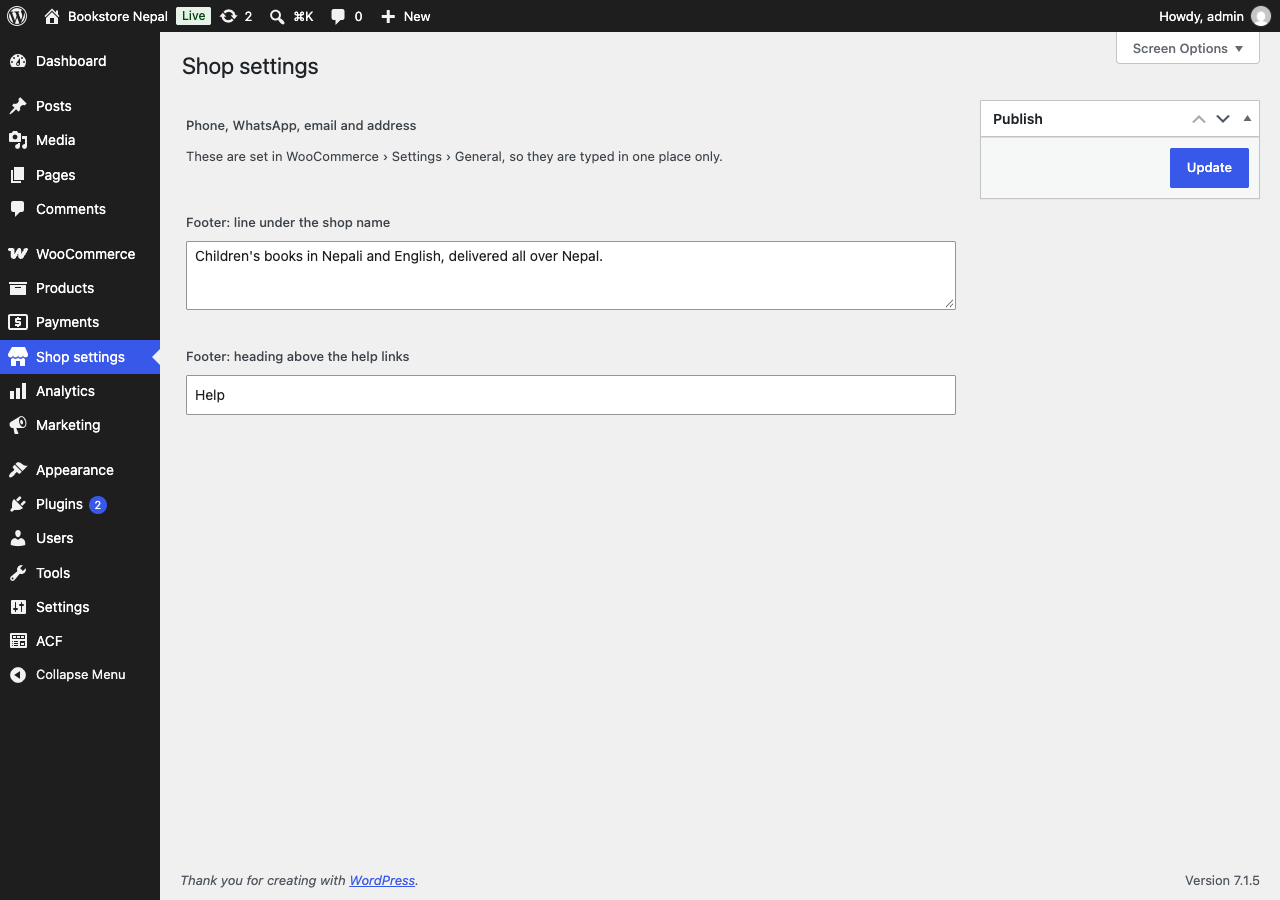
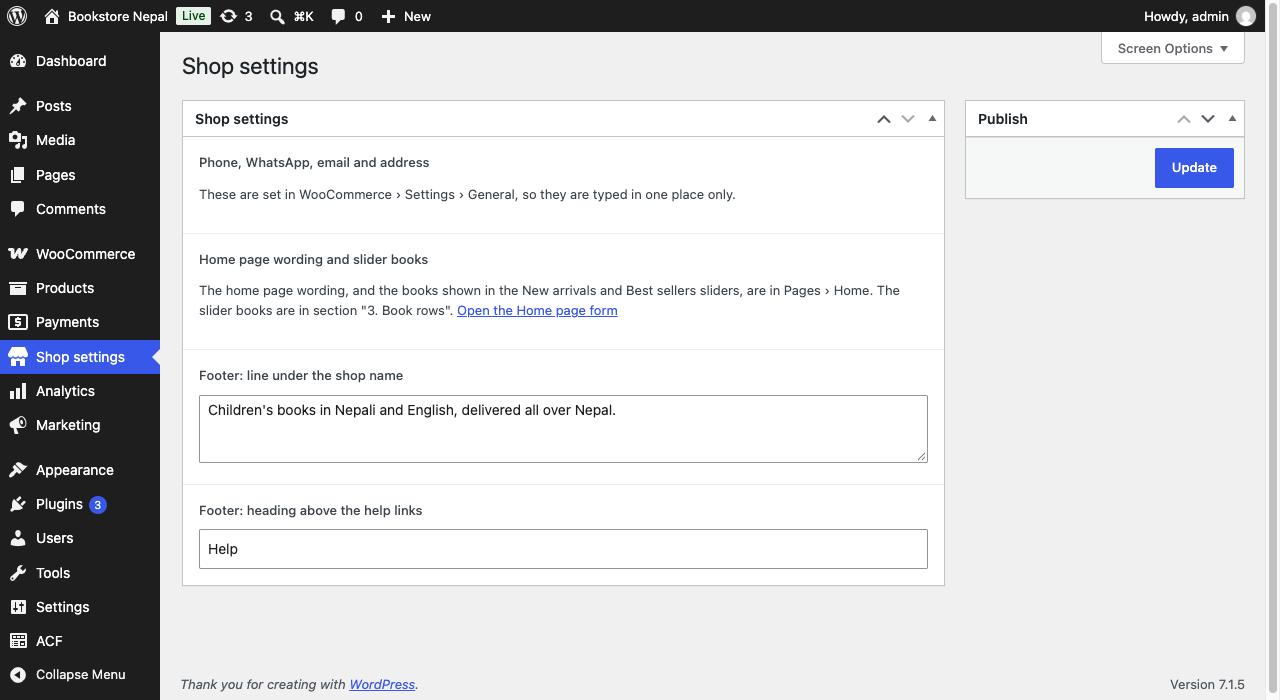
fix: slider cards not clipped, three-line menu button, hero books inside the page
- Slider cards no longer pop in (their scrolling row clipped the movement) and
  the row has a little room at the top.
- The mobile menu button uses the three-line icon.
- The drawn hero books stay inside the content edge on desktop.
- Shop settings points to the Home page form, where the slider book pickers are.

diff --git a/themes/bookstore-nepal/style.css b/themes/bookstore-nepal/style.css
@@ -279,9 +279,9 @@ body {
 	line-height: 1.1;
 }
 
-.bsn-hero__book--1 { left: 6%; top: 40px; width: 200px; height: 270px; background: #2F6FB5; color: #FFF; font-size: 24px; rotate: -8deg; }
-.bsn-hero__book--2 { left: 34%; top: 0; width: 210px; height: 290px; background: var(--wp--preset--color--accent-1); color: var(--wp--preset--color--contrast); font-size: 28px; rotate: 3deg; }
-.bsn-hero__book--3 { left: 60%; top: 70px; width: 190px; height: 260px; background: #E8746A; color: var(--wp--preset--color--contrast); font-size: 22px; rotate: 10deg; }
+.bsn-hero__book--1 { left: 20px; top: 40px; width: 180px; height: 245px; background: #2F6FB5; color: #FFF; font-size: 24px; rotate: -8deg; }
+.bsn-hero__book--2 { left: 50%; margin-left: -95px; top: 0; width: 190px; height: 260px; background: var(--wp--preset--color--accent-1); color: var(--wp--preset--color--contrast); font-size: 28px; rotate: 3deg; }
+.bsn-hero__book--3 { right: 28px; top: 70px; width: 175px; height: 240px; background: #E8746A; color: var(--wp--preset--color--contrast); font-size: 22px; rotate: 10deg; }
 
 /* Shop by age */
 .bsn-ages__grid {
@@ -667,7 +667,7 @@ body {
 	.bsn-hero__books { flex-basis: 100%; width: 100%; max-width: 360px; height: auto; aspect-ratio: 9 / 5; margin: 0 auto; }
 	.bsn-hero__book { padding: 10px; border-radius: 10px; box-shadow: 0 6px 0 var(--wp--preset--color--contrast); }
 	.bsn-hero__book--1 { left: 4%; top: 24px; width: 30%; height: auto; aspect-ratio: 3 / 4; font-size: clamp(12px, 4vw, 15px); }
-	.bsn-hero__book--2 { left: 35%; top: 0; width: 30%; height: auto; aspect-ratio: 3 / 4; font-size: clamp(13px, 4.2vw, 16px); }
+	.bsn-hero__book--2 { left: 35%; margin-left: 0; top: 0; width: 30%; height: auto; aspect-ratio: 3 / 4; font-size: clamp(13px, 4.2vw, 16px); }
 	.bsn-hero__book--3 { left: auto; right: 4%; top: 34px; width: 30%; height: auto; aspect-ratio: 3 / 4; font-size: clamp(12px, 3.8vw, 14px); }
 	.bsn-age-tile { flex-direction: row; align-items: center; min-height: 0; padding: 16px 18px; border-radius: var(--wp--custom--radius--medium); }
 	.bsn-age-tile__age { min-width: 84px; font-size: 38px; }
@@ -733,7 +733,7 @@ body {
 	grid-template-columns: none !important;
 	gap: var(--bsn-slider-gap) !important;
 	margin: 0;
-	padding: 0 0 12px;
+	padding: 6px 0 12px;
 }
 .bsn-slider .wc-block-product-template > li {
 	flex: 0 0 calc((100% - (var(--bsn-slider-cards) - 1) * var(--bsn-slider-gap)) / var(--bsn-slider-cards)) !important;

diff --git a/themes/bookstore-nepal/assets/js/motion.js b/themes/bookstore-nepal/assets/js/motion.js
@@ -11,7 +11,7 @@
 
 	var root = document.documentElement;
 	var targets = document.querySelectorAll(
-		'.bsn-main .bsn-section__head, .bsn-main .bsn-products .wc-block-product, .bsn-age-tile, .bsn-gift, .bsn-trust__list li, .bsn-book-details, .bsn-delivery, .bsn-faq'
+		'.bsn-main .bsn-section__head, .bsn-main .bsn-products:not(.bsn-slider) .wc-block-product, .bsn-age-tile, .bsn-gift, .bsn-trust__list li, .bsn-book-details, .bsn-delivery, .bsn-faq'
 	);
 
 	var observer = new IntersectionObserver(
@@ -26,7 +26,8 @@
 		{ rootMargin: '0px 0px -8% 0px', threshold: 0.08 }
 	);
 
-	// Cards and tiles in the same row pop in one after another. Anything already on screen
+	// Cards and tiles in the same row pop in one after another. Slider cards are left alone: their
+	// scrolling row clips anything that moves above it. Anything already on screen
 	// when this runs stays put, so nothing the visitor can already see blinks out and back.
 	var fold = window.innerHeight || root.clientHeight;
 	Array.prototype.forEach.call( targets, function ( el ) {

diff --git a/plugins/bookstore-nepal-core/src/Content/Fields.php b/plugins/bookstore-nepal-core/src/Content/Fields.php
@@ -150,6 +150,13 @@ class Fields {
 						'type'    => 'message',
 						'message' => __( 'These are set in WooCommerce › Settings › General, so they are typed in one place only.', 'bookstore-nepal' ),
 					),
+					array(
+						'name'     => 'bsn_settings_home_hint',
+						'label'    => __( 'Home page wording and slider books', 'bookstore-nepal' ),
+						'type'     => 'message',
+						'esc_html' => 0,
+						'message'  => self::home_hint(),
+					),
 					$textarea( 'bsn_footer_about', __( 'Footer: line under the shop name', 'bookstore-nepal' ) ),
 					$text( 'bsn_footer_help_heading', __( 'Footer: heading above the help links', 'bookstore-nepal' ) ),
 				),
@@ -263,6 +270,18 @@ class Fields {
 			$field['sub_fields']   = array_map( static fn( array $sub ): array => self::acf_field( $sub, $field['key'] . '_' ), $f['sub_fields'] );
 		}
 		return $field;
+	}
+
+	/**
+	 * Where the home page form is, with a link to it when the home page exists.
+	 */
+	private static function home_hint(): string {
+		$text  = esc_html__( 'The home page wording, and the books shown in the New arrivals and Best sellers sliders, are in Pages › Home. The slider books are in section "3. Book rows".', 'bookstore-nepal' );
+		$front = 'page' === get_option( 'show_on_front' ) ? (int) get_option( 'page_on_front' ) : 0;
+		if ( ! $front ) {
+			return $text;
+		}
+		return $text . ' <a href="' . esc_url( admin_url( 'post.php?post=' . $front . '&action=edit' ) ) . '">' . esc_html__( 'Open the Home page form', 'bookstore-nepal' ) . '</a>';
 	}
 
 	/**

diff --git a/tests/Unit/ContentFieldsTest.php b/tests/Unit/ContentFieldsTest.php
@@ -127,6 +127,17 @@ class ContentFieldsTest extends WP_UnitTestCase {
 		}
 	}
 
+	public function test_shop_settings_points_to_the_home_page_form(): void {
+		$front = self::factory()->post->create( array( 'post_type' => 'page', 'post_status' => 'publish' ) );
+		update_option( 'show_on_front', 'page' );
+		update_option( 'page_on_front', $front );
+		$fields = array_column( Fields::acf_group( 'settings' )['fields'], null, 'name' );
+		$hint   = $fields['bsn_settings_home_hint'];
+		$this->assertSame( 'message', $hint['type'] );
+		$this->assertStringContainsString( 'Book rows', $hint['message'] );
+		$this->assertStringContainsString( esc_url( admin_url( 'post.php?post=' . $front . '&action=edit' ) ), $hint['message'] );
+	}
+
 	public function test_groups_hide_the_content_editor_and_register_on_acf_init(): void {
 		$this->assertContains( 'the_content', Fields::acf_group( 'home_hero' )['hide_on_screen'] );
 		Fields::register();

diff --git a/themes/bookstore-nepal/patterns/header-menu.php b/themes/bookstore-nepal/patterns/header-menu.php
@@ -83,6 +83,7 @@ if ( null !== $bsn_tracking ) {
 $bsn_nav = serialize_block_attributes(
 	array(
 		'overlayMenu'         => 'mobile',
+		'icon'                => 'menu',
 		'openSubmenusOnClick' => true,
 		'className'           => 'bsn-nav',
 		'ariaLabel'           => __( 'Main', 'bookstore-nepal' ),

diff --git a/themes/bookstore-nepal/inc/Theme.php b/themes/bookstore-nepal/inc/Theme.php
@@ -14,7 +14,7 @@ defined( 'ABSPATH' ) || exit;
  */
 final class Theme {
 
-	public const VERSION = '0.1.9';
+	public const VERSION = '0.1.10';
 
 	/** Class on an empty group block where the plugin's book details render. */
 	public const DETAILS_SLOT_CLASS = 'bsn-book-details-slot';
